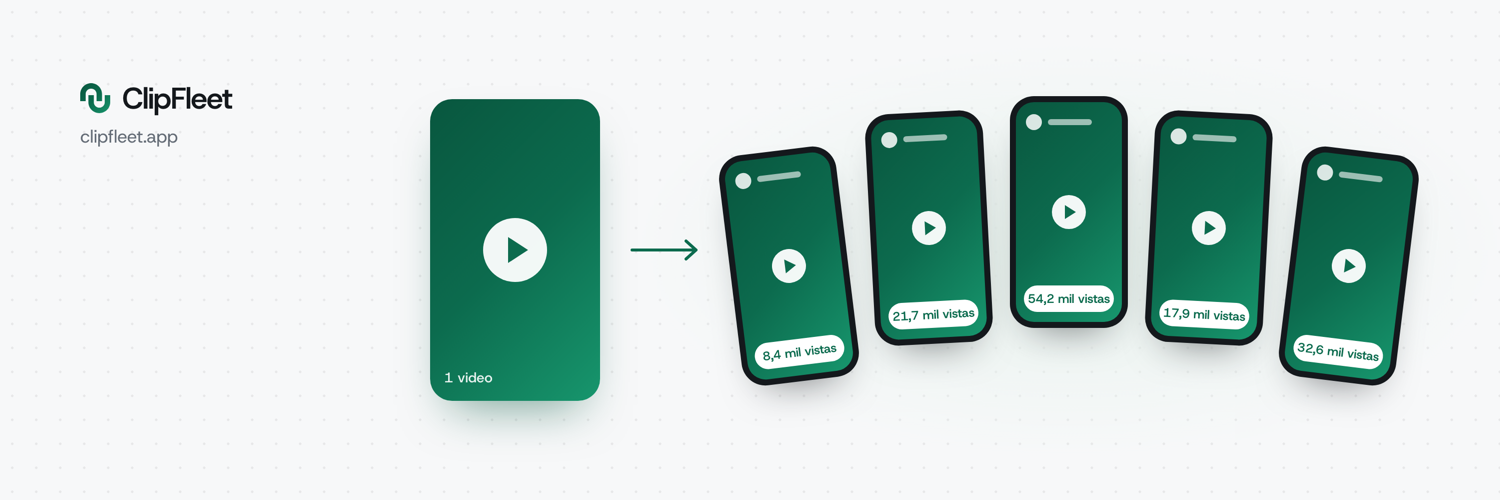
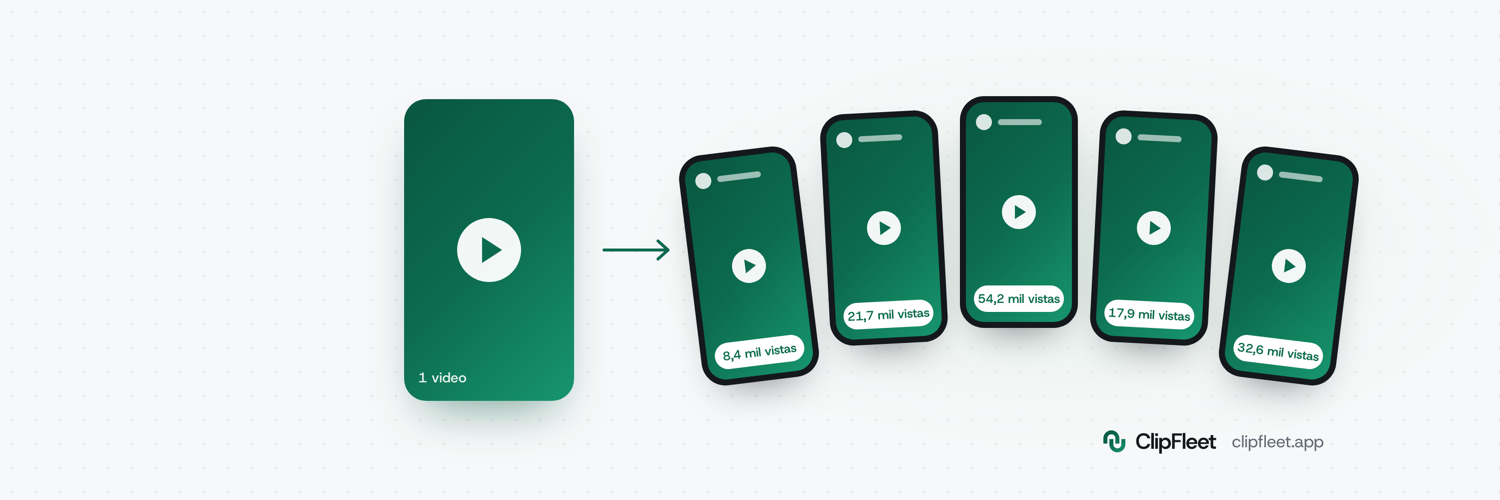
Header de X: marca abajo a la derecha, apta para la app de iOS
La app de iOS recorta ~120 px de cada lado y tapa arriba con la barra de
estado: la marca de arriba a la izquierda quedaba cortada. Pasa a una
línea abajo a la derecha, y los teléfonos se corren a la izquierda para
que el último no quede recortado.

Changed region(s): [[0.2453, 0.18, 0.9507, 0.81], [0.0307, 0.15, 0.1533, 0.3], [0.736, 0.84, 0.8893, 0.9]]

diff --git a/assets/brand/x/x-header.html b/assets/brand/x/x-header.html
@@ -31,23 +31,23 @@
       var(--wash);
   }
 
-  /* El avatar de X tapa la esquina inferior izquierda (hasta ~x 380, y 330): ahí no va nada. */
+  /* Zonas que tapa X. Web: el avatar, abajo a la izquierda (hasta ~x 390, desde y 320).
+     App de iOS: recorta ~120 px de cada lado, la barra de estado tapa arriba (hasta y 130)
+     y los botones de volver y buscar quedan a media altura (y 215–340) en x 176–301 y 1201–1328.
+     La marca va abajo a la derecha: es la única esquina libre en las dos. */
   .wordmark {
-    position: absolute; left: 80px; top: 78px;
-    display: flex; align-items: center; gap: 12px;
-    font-size: 30px; font-weight: 600; letter-spacing: -0.03em;
+    position: absolute; right: 176px; bottom: 44px;
+    display: flex; align-items: center; gap: 10px;
+    font-size: 22px; font-weight: 600; letter-spacing: -0.03em;
   }
-  .wordmark svg { width: 30px; height: 30px; }
-  .url {
-    position: absolute; left: 80px; top: 124px;
-    font-size: 18px; color: var(--ink-3); letter-spacing: -0.01em;
-  }
+  .wordmark svg { width: 22px; height: 22px; }
+  .wordmark .url { margin-left: 6px; font-size: 17px; font-weight: 400; color: var(--ink-3); letter-spacing: -0.01em; }
 
-  .arrow { position: absolute; left: 630px; top: 238px; }
+  .arrow { position: absolute; left: 602px; top: 238px; }
 
   /* El video original. */
   .source {
-    position: absolute; left: 430px; top: 99px; width: 170px; height: 302px;
+    position: absolute; left: 404px; top: 99px; width: 170px; height: 302px;
     border-radius: 22px; background: var(--clip);
     box-shadow: 0 24px 48px -20px rgba(9, 87, 63, 0.55);
     display: grid; place-items: center;
@@ -109,8 +109,8 @@
       </g>
     </svg>
     ClipFleet
+    <span class="url">clipfleet.app</span>
   </div>
-  <div class="url">clipfleet.app</div>
 
   <svg class="arrow" width="72" height="24" viewBox="0 0 72 24" aria-hidden="true">
     <path d="M2 12H66M56 3l10 9-10 9" fill="none" stroke="#0c6b4e" stroke-width="3" stroke-linecap="round" stroke-linejoin="round"/>
@@ -121,11 +121,11 @@
   <script>
     // Cada teléfono: posición, giro y vistas.
     const phones = [
-      { x: 730,  y: 150, r: -7, views: "8,4 mil" },
-      { x: 870,  y: 112, r: -3, views: "21,7 mil" },
-      { x: 1010, y: 96,  r: 0,  views: "54,2 mil" },
-      { x: 1150, y: 112, r: 3,  views: "17,9 mil" },
-      { x: 1290, y: 150, r: 7,  views: "32,6 mil" },
+      { x: 690,  y: 150, r: -7, views: "8,4 mil" },
+      { x: 825,  y: 112, r: -3, views: "21,7 mil" },
+      { x: 960,  y: 96,  r: 0,  views: "54,2 mil" },
+      { x: 1095, y: 112, r: 3,  views: "17,9 mil" },
+      { x: 1230, y: 150, r: 7,  views: "32,6 mil" },
     ];
 
     for (const p of phones) {
